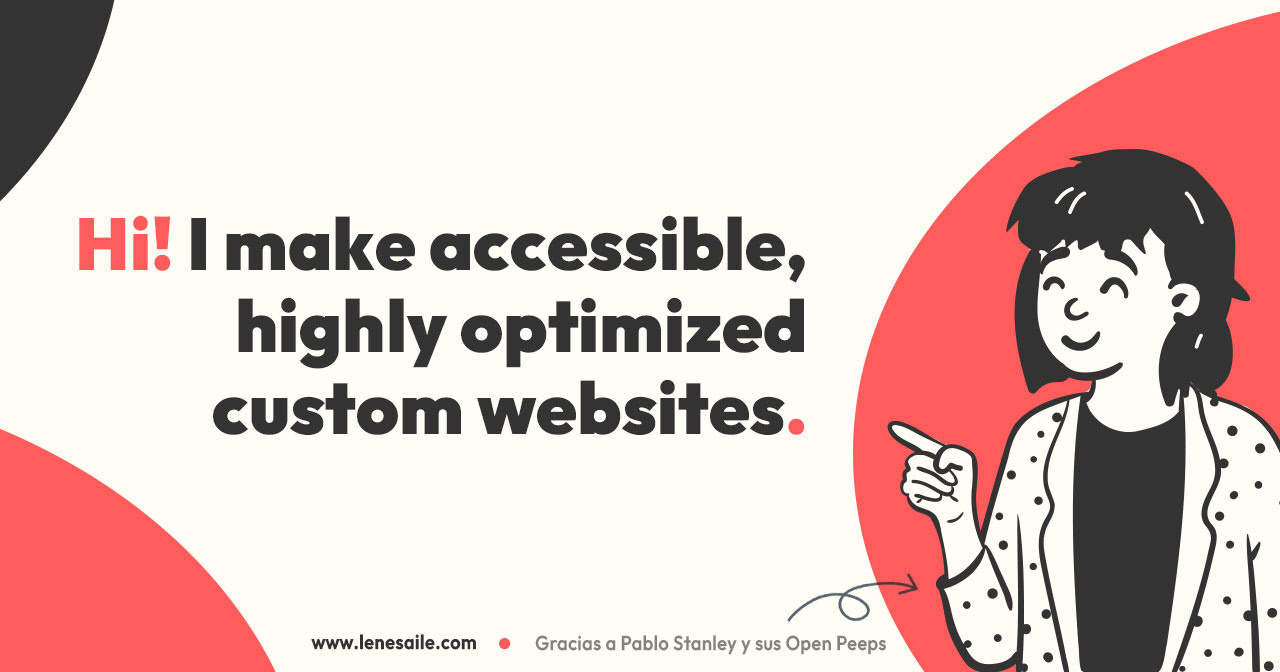
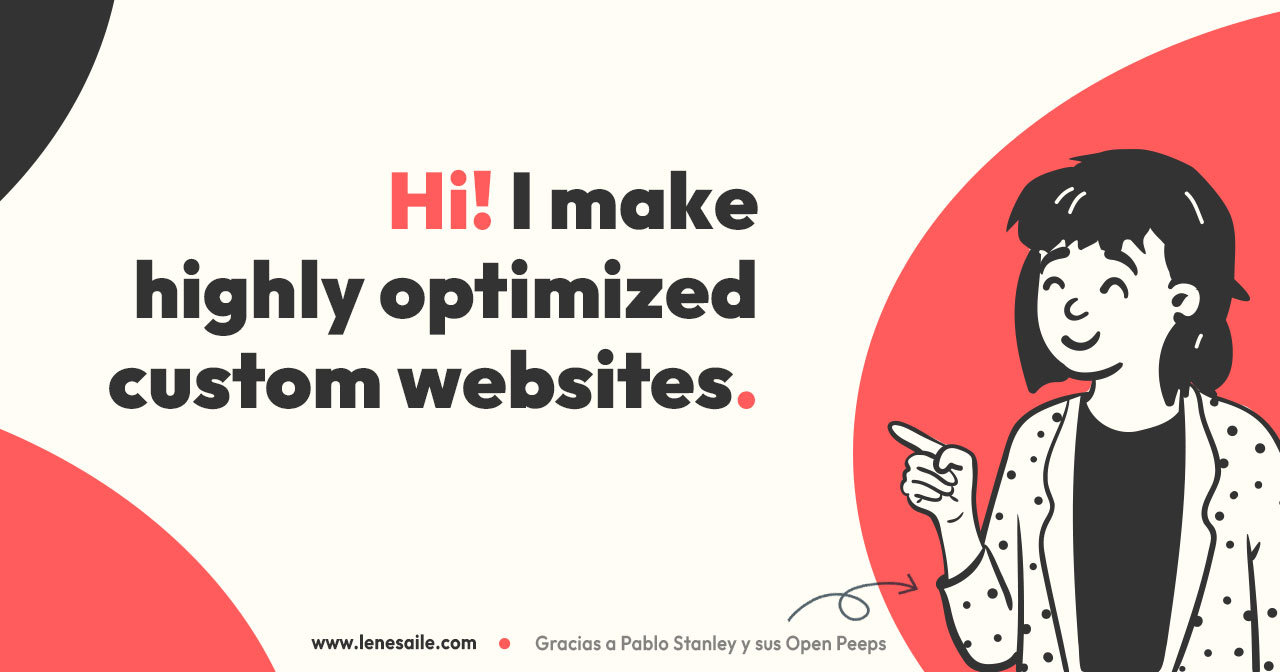
The claim to do accessible work is now formulated in a much more modest way.

Changed region(s): [[0.0625, 0.25, 0.625, 0.6562]]

diff --git a/src/assets/css/blocks/cta.css b/src/assets/css/blocks/cta.css
@@ -3,6 +3,12 @@
   color: var(--color-text);
   padding: 0 0.3rem;
   border-radius: var(--border-radius);
+  text-decoration: none;
+}
+
+.cta a:hover {
+  outline: 1px solid;
+  outline-offset: 0.01ch;
 }
 
 .cta section {

diff --git a/src/assets/css/blocks/hero.css b/src/assets/css/blocks/hero.css
@@ -61,3 +61,7 @@
 .hero .snapshot img {
   filter: sepia(0.3) grayscale(0.7) brightness(1.2);
 }
+
+.hero .reverse {
+  color: var(--color-text);
+}

diff --git a/src/es/pages/index.md b/src/es/pages/index.md
@@ -7,7 +7,7 @@ key: 'home'
 description: Soy una desarrolladora y diseñadora nacida en Berlín, viviendo en Madrid. Llevo creando para la web profesionalmente desde 2008.
 layout: home
 hero:
-  title: Hago páginas web a medida, accesibles y altamente optimizadas.
+  title: Hago páginas web a medida altamente optimizadas.
   intro: Llevo más de 15 años trabajando como desarrolladora web. Como autónoma y por encargo de agencias he desarrollado y diseñado innumerables sitios web para pequeñas y medianas empresas, autónomos, particulares, asociaciones y fundaciones. Trabajo principalmente con la arquitectura Jamstack y WordPress.
   image: './src/assets/images/lene2022.jpg'
   alt: 'Lene sentada frente a su escritorio, sonriendo'
@@ -28,7 +28,7 @@ cta:
   lead: '¡Envíame un correo a [hola@lenesaile.com](mailto:hola@lenesaile.com) y cuéntame tu proyecto, oportunidades o lo que tengas en mente! Siempre estoy dispuesto a charlar.'
 ---
 
-Me aseguro de que un sitio web sea ==rápido y cargue sólo lo necesario==. El visitante debe poder orientarse inmediatamente y el sitio web debe ser ==accesible y utilizable para todas las personas== independientemente de cualquier discapacidad.
+Me aseguro de que un sitio web sea ==rápido y cargue sólo lo necesario==. El visitante debe poder orientarse inmediatamente y el sitio web debe ser ==accesible y utilizable para todas las personas== independientemente de cualquier discapacidad. Intento ser una aprendiz humilde en este campo y ajustao mis conocimientos a diario.
 
 No creo sitios web basados en plantillas preprogramadas y no utilizo constructores visuales de sitios web. Todos los sitios web se diseñan y desarrollan desde cero para que funcionen exactamente como yo y mis clientes los imaginamos.
 
@@ -37,4 +37,4 @@ Este enfoque tiene varias ventajas:
 1. Ninguna imagen es demasiado grande, ningún código es demasiado, y el sitio web funciona sin errores y con rapidez.
 2. Soy independiente de terceros, reacciono a los problemas y a las actualizaciones necesarias yo mismo.
 3. Las páginas web de mis clientes consiguen un muy buen posicionamiento en los buscadores.
-4. Todas las ideas se pueden cumplir en términos de forma, estructura y función.
+4. Casi todas las ideas se pueden cumplir en términos de forma, estructura y función.

diff --git a/src/de/pages/index.md b/src/de/pages/index.md
@@ -7,7 +7,7 @@ key: 'home'
 description: Ich habe mich auf maßgeschneiderte, kreative Websites spezialisiert, bei denen Barrierefreiheit und Leistung im Vordergrund stehen.
 layout: home
 hero:
-  title: Ich erstelle barrierefreie, optimierte Websites nach Maß.
+  title: Ich entwickle hoch-optimierte Websites nach Maß.
   intro: Seit über 15 Jahren bin ich als Webentwicklerin tätig. Als Freelancer und im Auftrag von Agenturen habe ich unzählige Websites für kleine und mittlere Unternehmen, Privatpersonen, Vereine und Stiftungen entwickelt und gestaltet. Ich arbeite hauptsächlich mit der Jamstack-Architektur und WordPress.
   image: './src/assets/images/lene2022.jpg'
   alt: 'Lene sitzt vor ihrem Schreibtisch und lächelt'
@@ -28,7 +28,7 @@ cta:
   lead: 'Schick mir eine Mail an [hola@lenesaile.com](mailto:hola@lenesaile.com) und erzähl mir von deinem Projekt oder was auch immer du im Sinn hast! Ich bin stets für ein Gespräch zu haben.'
 ---
 
-Ich achte darauf, dass eine Website ==schnell ist und nur das Nötigste lädt==, dass der Besucher sich sofort zurechtfindet und dass die Website ==zugänglich und nutzbar für alle Menschen== ist, unabhängig von einer möglichen Behinderung.
+Ich achte darauf, dass eine Website ==schnell ist und nur das Nötigste lädt==, dass der Besucher sich sofort zurechtfindet und dass die Website ==zugänglich und nutzbar für alle Menschen== ist. Ich bin eine ewig Lernende in diesem Bereich und passe mein Wissen täglich an.
 
 Ich erstelle keine Websites auf der Grundlage von vorprogrammierten Vorlagen und verwende keine visuellen Website-Builder. Alle Projekte werden von Grund auf so konzipiert und entwickelt, sodass sie genau so funktionieren und aussehen wie meine Kunden und ich uns das vorstellen.
 
@@ -37,4 +37,4 @@ Das hat viele Vorteile:
 1. Kein Bild ist zu groß, kein Code ist zu viel - und die Website läuft fehlerfrei und schnell.
 2. Ich bin unabhängig von Dritten, ich reagiere selbst auf Probleme und notwendige Aktualisierungen.
 3. Die Websites meiner Kunden erreichen eine sehr gute Positionierung in den Suchmaschinen.
-4. Alle Vorstellungen können in Bezug auf Form, Struktur und Funktion erfüllt werden!
+4. Nahezu alle Vorstellungen können in Bezug auf Form, Struktur und Funktion erfüllt werden!

diff --git a/src/en/pages/index.md b/src/en/pages/index.md
@@ -7,7 +7,7 @@ key: 'home'
 description: I'm a developer and designer based in Madrid who has been building for the web professionally since 2008. I make accessible, highly optimized custom websites.
 layout: home
 hero:
-  title: I make accessible, highly optimized custom websites.
+  title: I make highly optimized custom websites.
   intro: I have been working as a web developer for over 15 years. As a freelancer and on behalf of agencies I have developed and designed countless websites for small and medium-sized enterprises, freelancers, individuals, associations and foundations. I mainly work with the Jamstack architecture and WordPress.
   image: './src/assets/images/lene2022.jpg'
   alt: 'Lene sitting in front of her desk, smiling'
@@ -28,7 +28,7 @@ cta:
   lead: "Send me a mail at [hola@lenesaile.com](mailto:hola@lenesaile.com) and tell me about your project, opportunities or whatever you have in mind! I'm always up for a chat."
 ---
 
-I make sure that a website is ==fast and loads only what is necessary==. The visitor should be able to find his way around immediately and the website should be ==accessible and usable for all people== regardless of any disability.
+I make sure that a website is ==fast and loads only what is necessary==. The visitor should be able to find his way around immediately and the website should be ==accessible and usable for all people==. I am a humble learner in this field and adjust my knowledge on a daily basis.
 
 I do not create websites based on pre-programmed templates and I do not use visual website builders. All websites are designed and developed from the ground up so that they work exactly as I and my clients imagine them to.
 
@@ -37,4 +37,4 @@ This approach has various advantages:
 1. No image is too big, no code is too much - and the website runs error-free and fast.
 2. I am independent of third parties, I react to problems and necessary updates myself.
 3. The websites of my clients achieve a very good positioning in the search engines.
-4. All ideas can be fulfilled in terms of form, structure and function.
+4. Almost all ideas can be fulfilled in terms of form, structure and function.

diff --git a/src/de/blog/2022-10-26-wordpress.md b/src/de/blog/2022-10-26-wordpress.md
@@ -10,7 +10,7 @@ youtube: true
 cta:
   title: 'Möchtest du eine WordPress-Seite?'
   desktop: 'Ich arbeite schon seit vielen Jahren mit WordPress. Bei Premium-Themes, Page-Buildern oder Plugin-Problemen kann ich dir aber wahrscheinlich nicht helfen. '
-  lead: 'Ich bin [WordPress-Expertin bei Codeable](https://www.codeable.io/developers/lene-saile/). Wenn du eine handgemachte, barrierefreie und schnelle WordPress-Website möchtest, kannst du mich jederzeit anschreiben!'
+  lead: 'Ich bin [WordPress-Expertin bei Codeable](https://www.codeable.io/developers/lene-saile/). Wenn du eine handgemachte, sichere und sehr schnelle WordPress-Website möchtest, kannst du mich jederzeit anschreiben!'
 ---
 
 2007 war ich auf der Suche nach einem CMS, das ich verstehen konnte, um mit ihm eigene Webseiten zu erstellen. Nachdem ich [Joomla](https://www.joomla.org/) und [TYPO3](https://typo3.org/) ausprobiert hatte (und es hasste), entdeckte ich [WordPress](https://wordpress.org/). Es war eine Offenbarung.

diff --git a/src/en/blog/2022-10-26-wordpress.md b/src/en/blog/2022-10-26-wordpress.md
@@ -10,7 +10,7 @@ youtube: true
 cta:
   title: 'You want a WordPress site?'
   desktop: "I have been working with WordPress for many years. I probably won't be able to help you with premium themes, page builders or plugin issues though."
-  lead: "I'm a (niche) [WordPress expert on Codeable](https://www.codeable.io/developers/lene-saile/). If you want a custom made, accessible and performant WordPress site, consider working with me."
+  lead: "I'm a (niche) [WordPress expert on Codeable](https://www.codeable.io/developers/lene-saile/). If you want a custom made, secure and performant WordPress site, consider working with me."
 ---
 
 Back in 2007, I was looking for a CMS that I could understand so I could use it to create my own websites. After trying [Joomla](https://www.joomla.org/) and [TYPO3](https://typo3.org/) (and hating it), I discovered [WordPress](https://wordpress.org/). It was a revelation.

diff --git a/src/es/blog/2022-10-26-wordpress.md b/src/es/blog/2022-10-26-wordpress.md
@@ -10,7 +10,7 @@ youtube: true
 cta:
   title: '¿Quieres una página web con WordPress?'
   desktop: 'Llevo muchos años trabajando con WordPress. Sin embargo, probablemente no podré ayudarte con temas premium, constructores de páginas o problemas de plugins.'
-  lead: 'Soy [experta de WordPress en Codeable](https://www.codeable.io/developers/lene-saile/). Si quieres una página web con WordPress hecho a medida, accesible y rápida, ponte en contacto conmigo.'
+  lead: 'Soy [experta de WordPress en Codeable](https://www.codeable.io/developers/lene-saile/). Si quieres una página web con WordPress hecho a medida, segura y rápida, ponte en contacto conmigo.'
 ---
 
 En 2007 buscaba un CMS que tuviera sentido para mí. Tras probar [Joomla](https://www.joomla.org/) y [TYPO3](https://typo3.org/) (y odiarlo), descubrí [WordPress](https://wordpress.org/). Fue una revelación.
